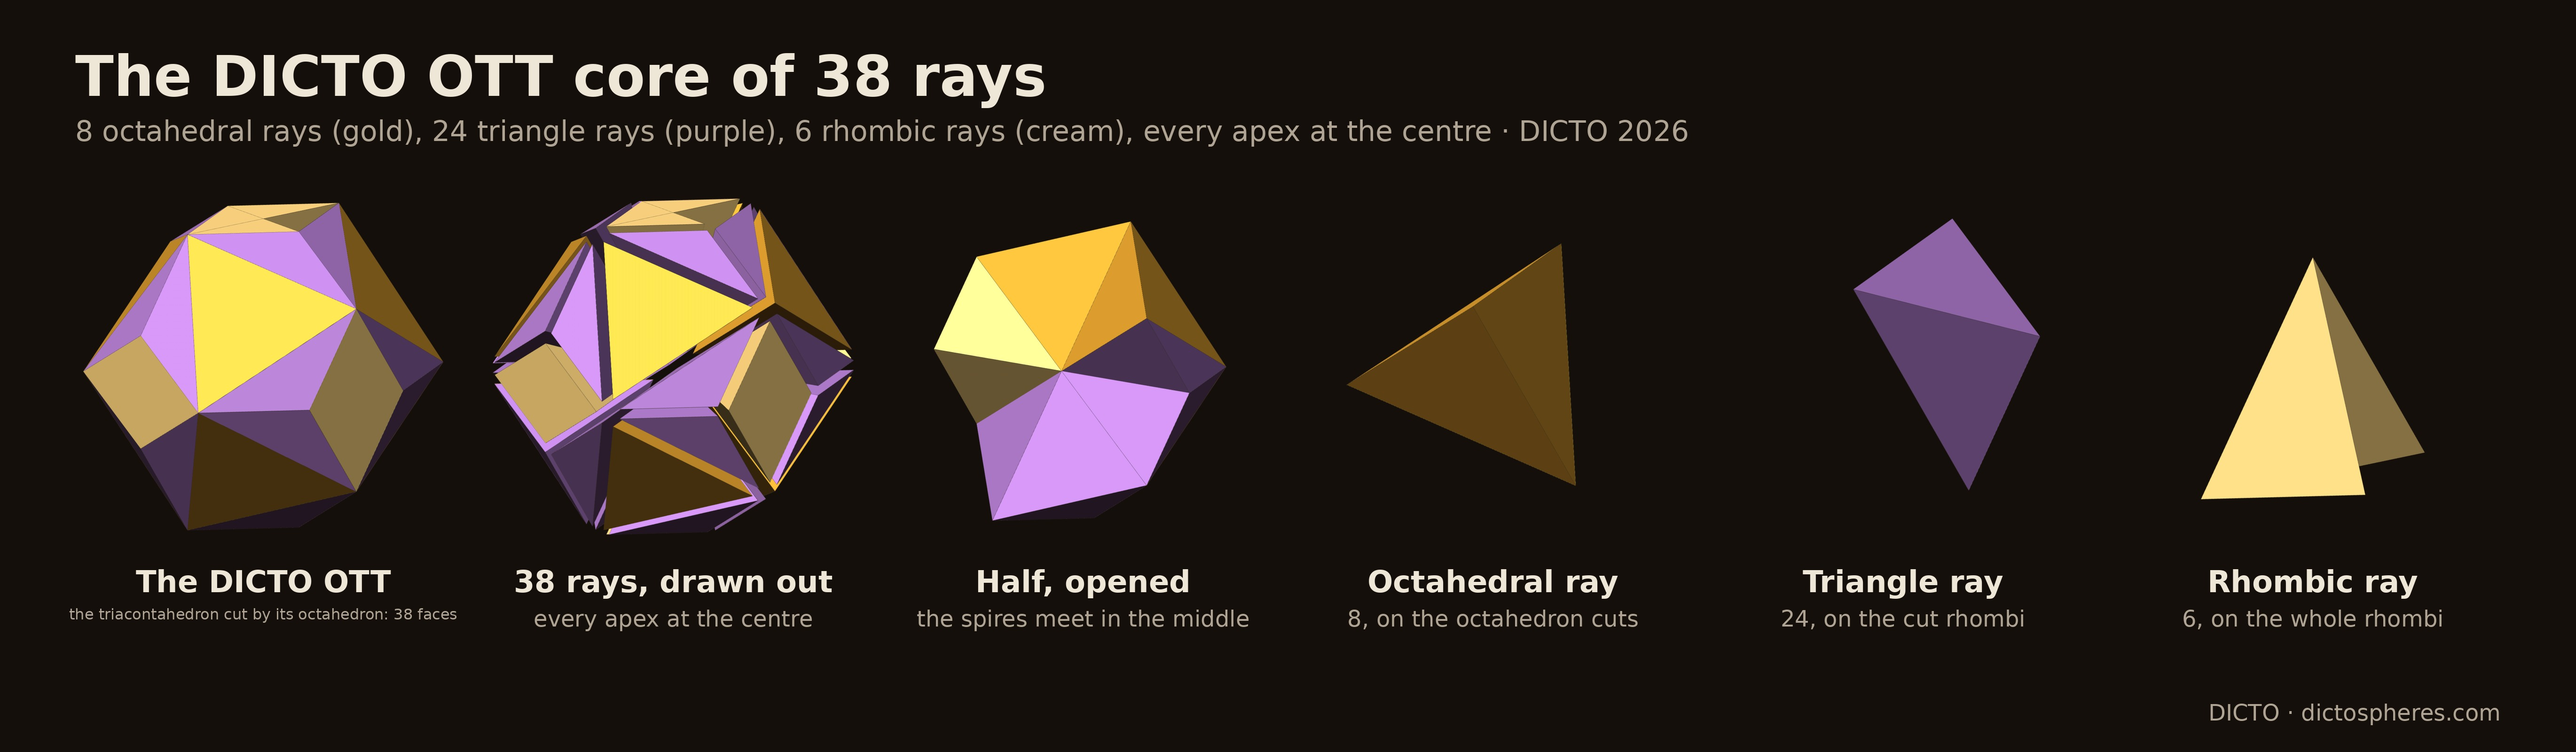
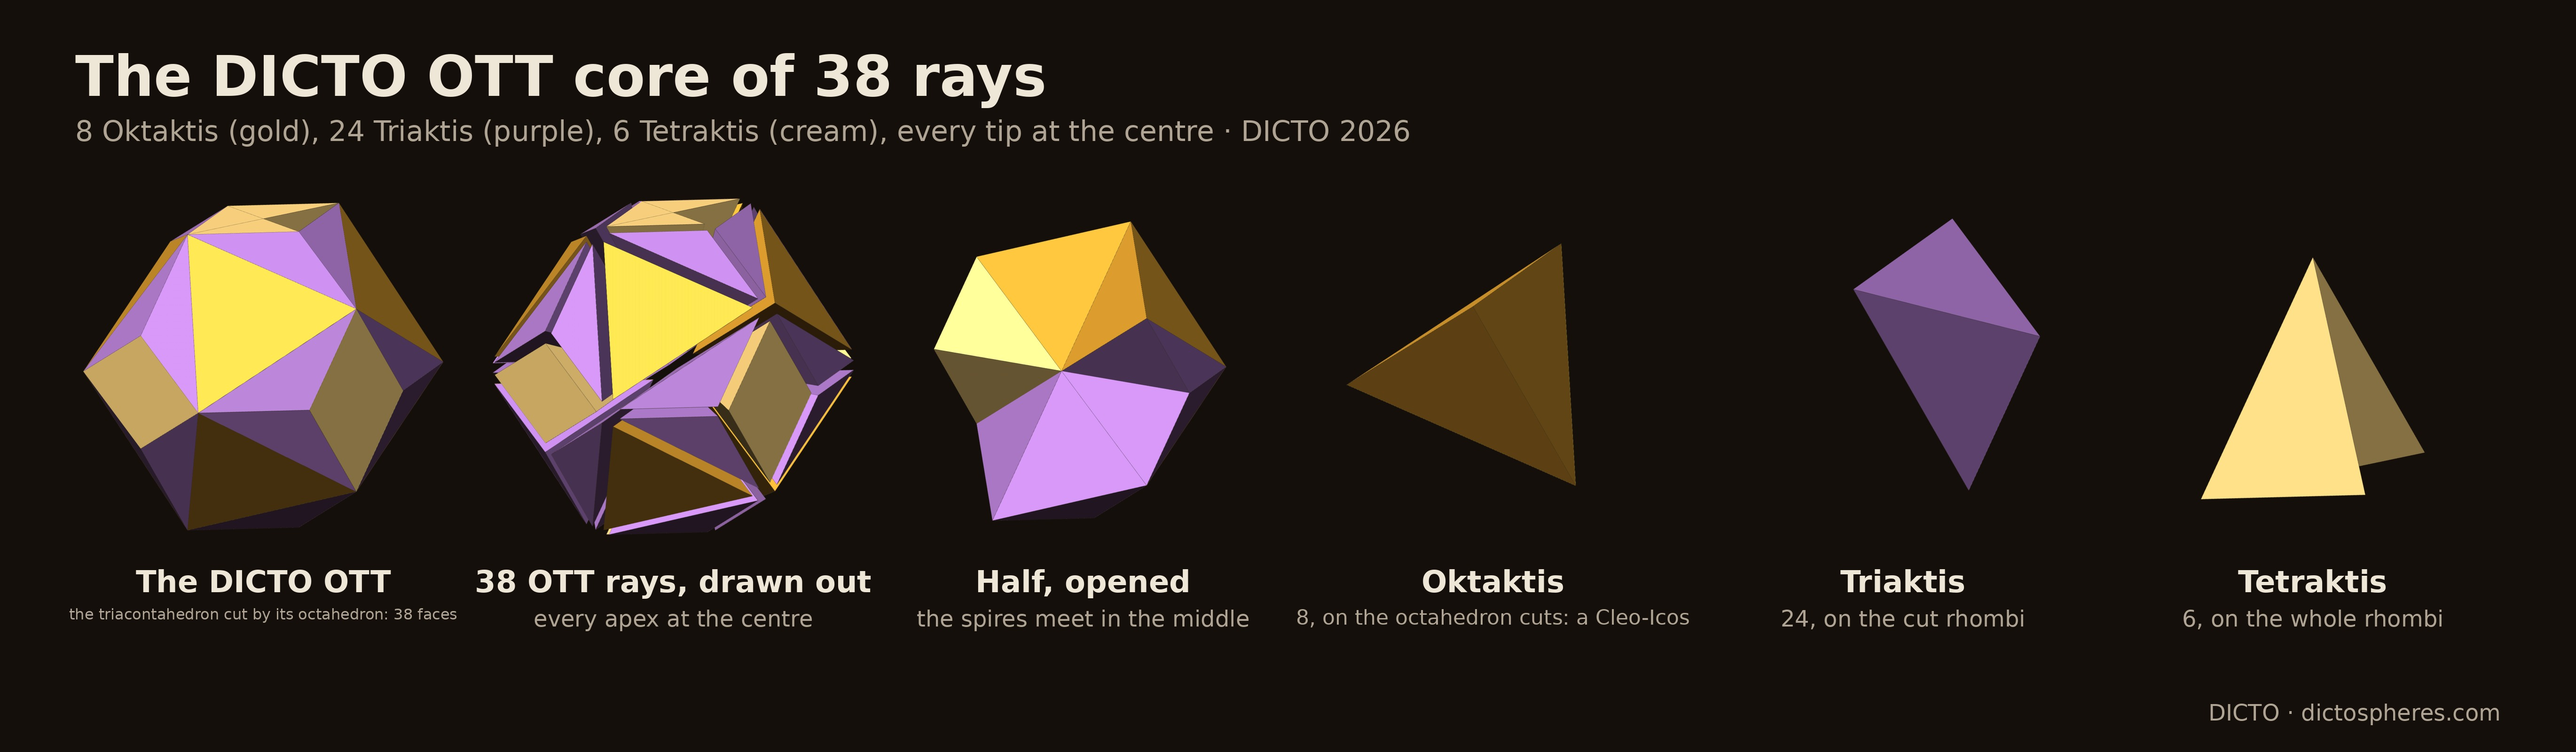
OTT rays figure: DICTO's names Oktaktis (a Cleo-Icos), Triaktis, Tetraktis

diff --git a/studies/2026-10-20-ott-rays/ott_rays_compose.py b/studies/2026-10-20-ott-rays/ott_rays_compose.py
@@ -20,4 +20,7 @@ def sheet(idx, cols, path, title=None, sub=None, cell=520, gap=36, names=None, s
             d.text((x + cell / 2 - d.textlength(txt, font=fo) / 2, yy), txt, font=fo, fill=col)
     m = 'DICTO · dictospheres.com'; d.text((W - 80 * K - d.textlength(m, font=f(24 * K)), Hh - 56 * K), m, font=f(24 * K), fill=MUTE)
     im.save(os.path.join(OUT, path), quality=92); print(path, im.size)
-sheet([0, 1, 2, 3, 4, 5], 6, 'ott-rays.jpg', 'The DICTO OTT core of 38 rays', '8 octahedral rays (gold), 24 triangle rays (purple), 6 rhombic rays (cream), every apex at the centre · DICTO 2026', cell=400)
+# names DICTO's (2026-10-20): Oktaktis (octahedral ray, exactly a Cleo-Icos), Triaktis (triangle ray), Tetraktis (rhombic ray)
+L[1]['title'] = '38 OTT rays, drawn out'
+for i, (t, s) in zip((3, 4, 5), [('Oktaktis', '8, on the octahedron cuts: a Cleo-Icos'), ('Triaktis', '24, on the cut rhombi'), ('Tetraktis', '6, on the whole rhombi')]): L[i]['title'], L[i]['sub'] = t, s
+sheet([0, 1, 2, 3, 4, 5], 6, 'ott-rays.jpg', 'The DICTO OTT core of 38 rays', '8 Oktaktis (gold), 24 Triaktis (purple), 6 Tetraktis (cream), every tip at the centre · DICTO 2026', cell=400)
